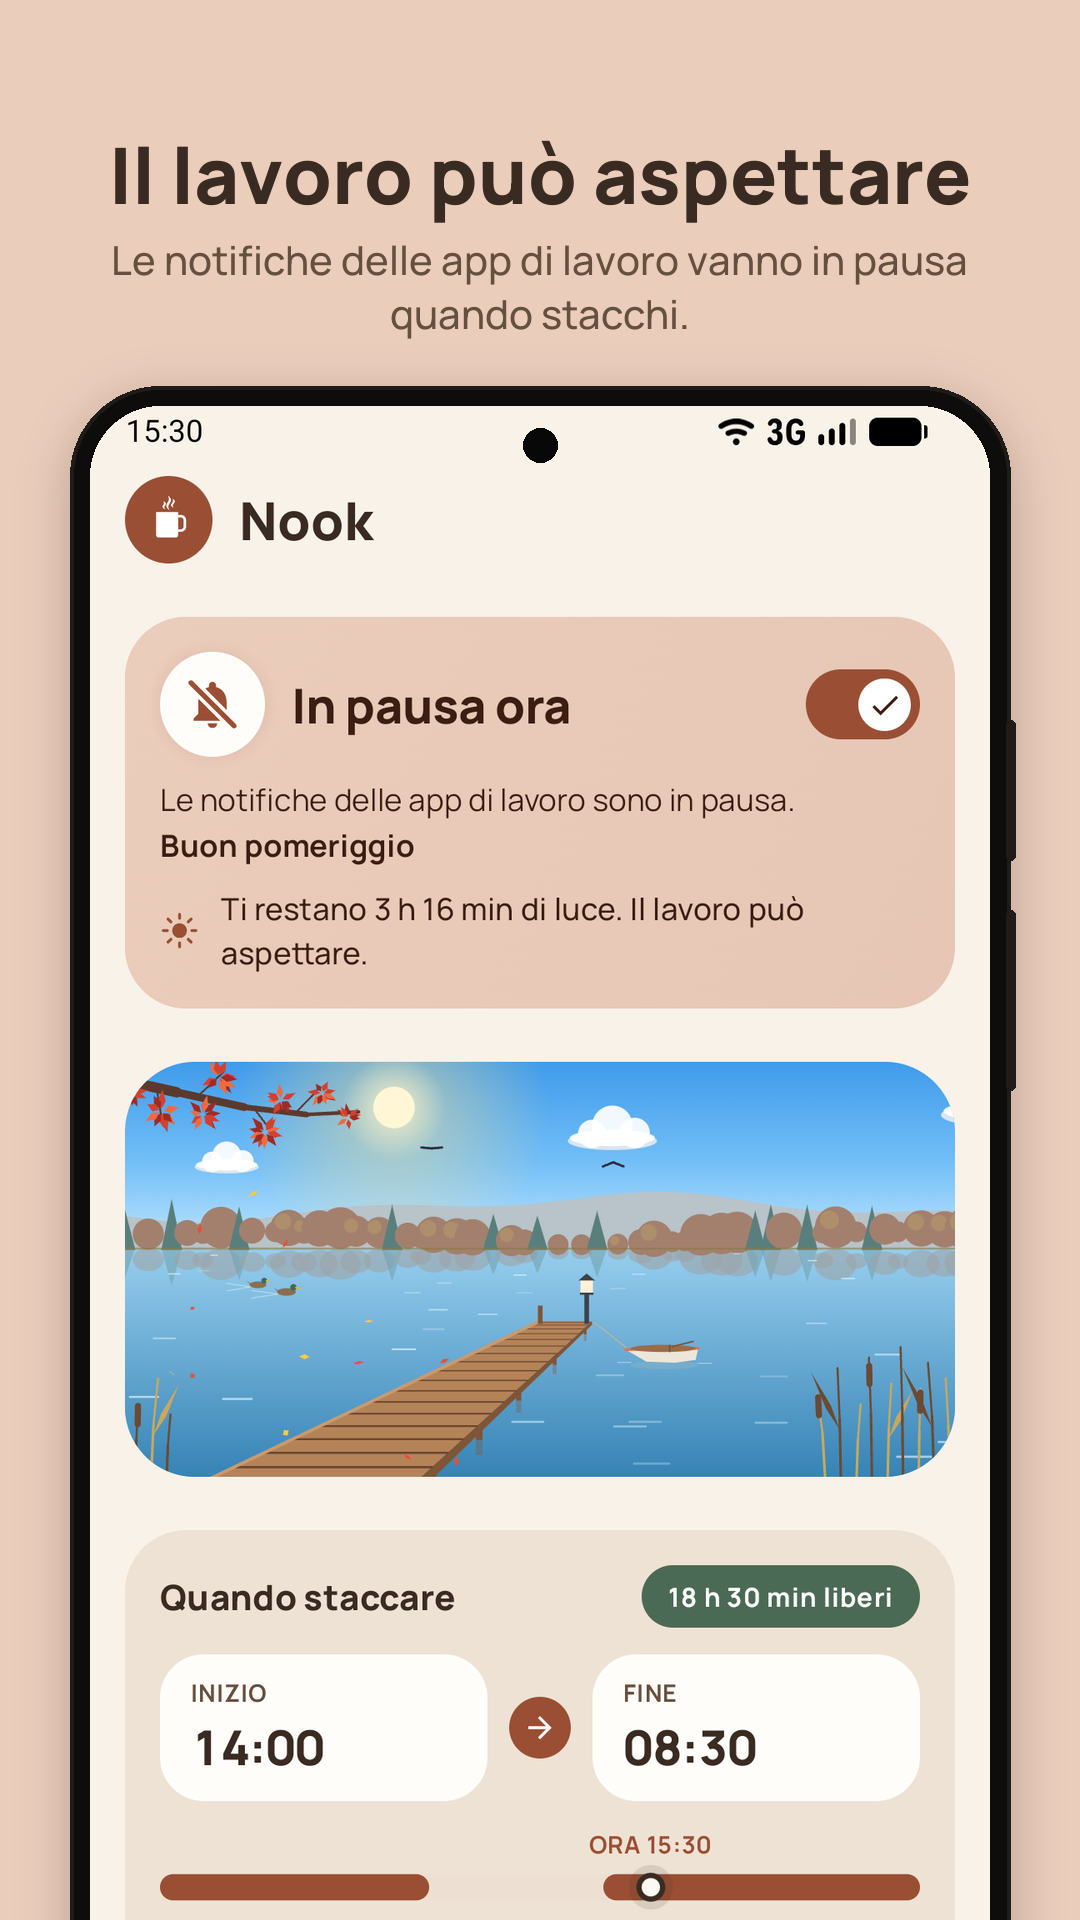
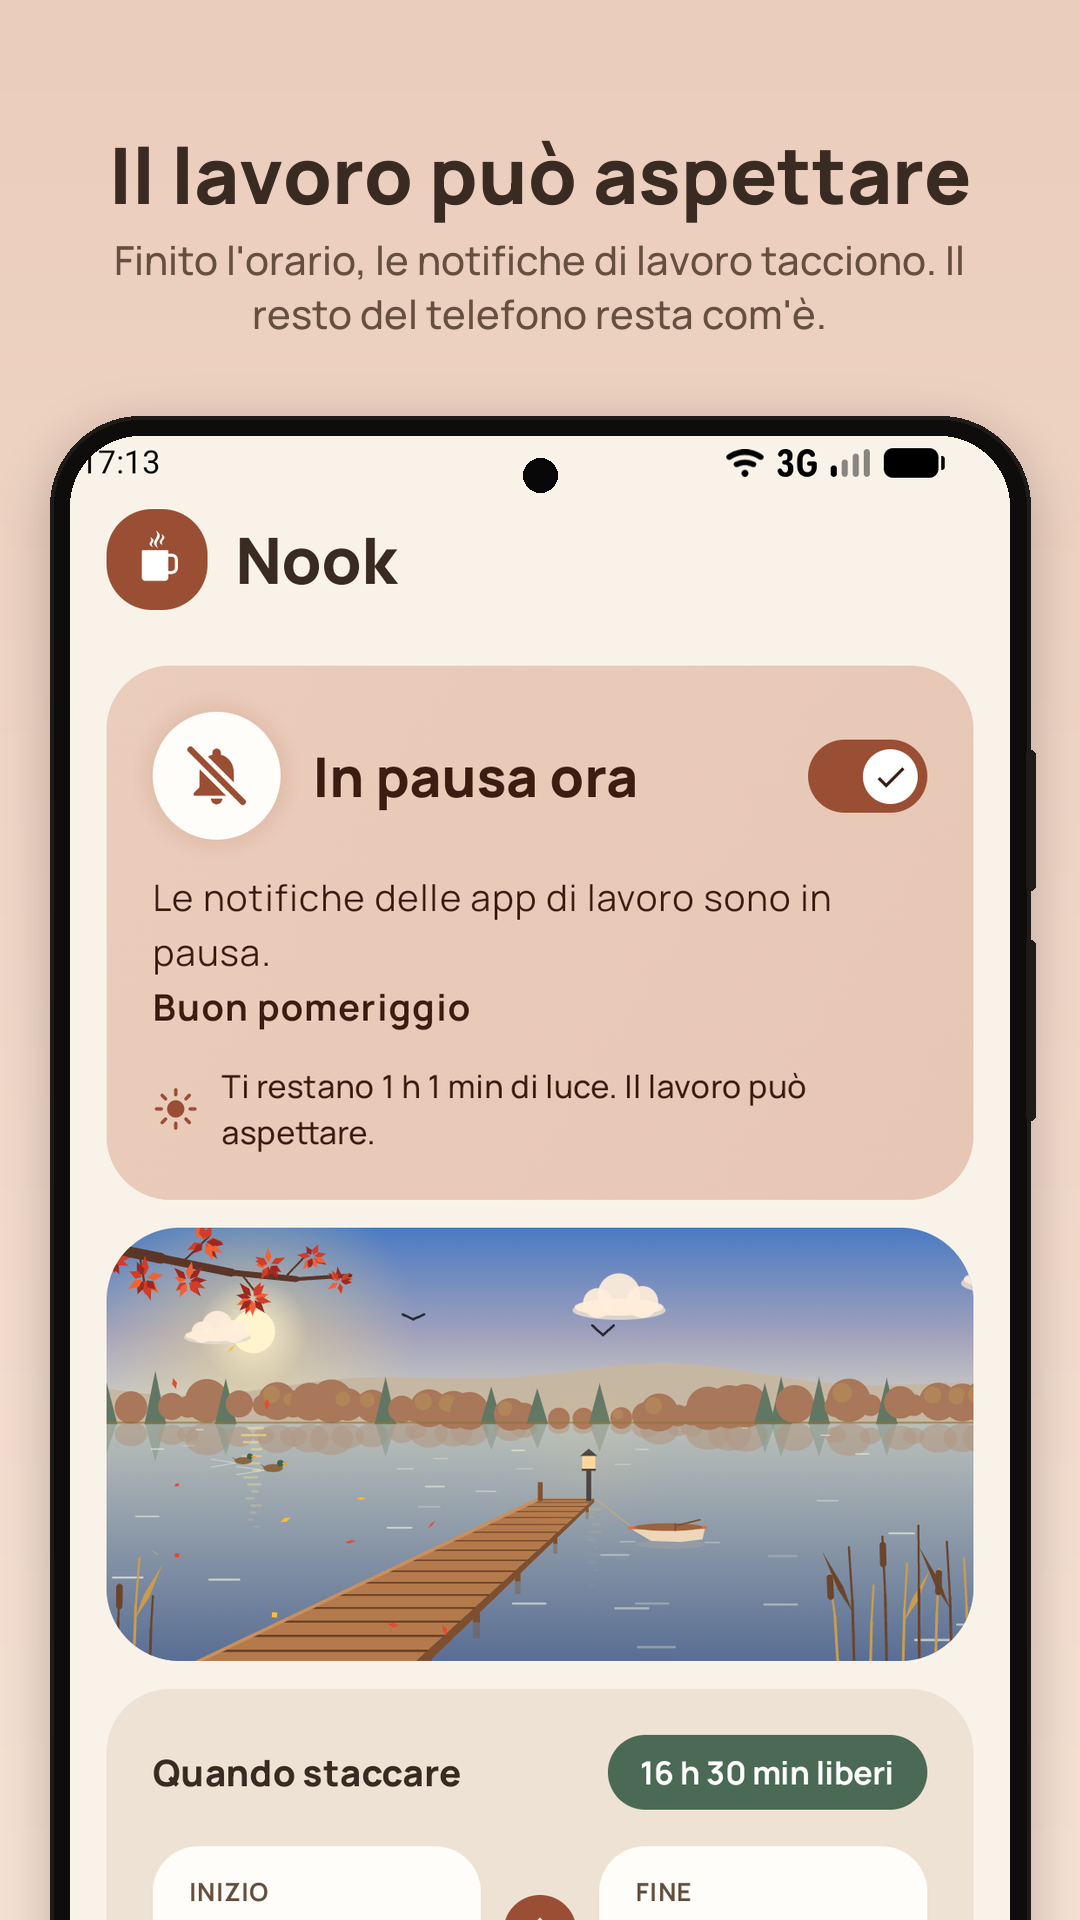
Store screenshots: plainer captions, gradient background, fixed phone position

diff --git a/tools/store/compose_screenshots.py b/tools/store/compose_screenshots.py
@@ -18,24 +18,24 @@ FONT=sys.argv[2]
 W,H=1080,1920
 def font(size, weight):
     f=ImageFont.truetype(FONT,size); f.set_variation_by_name(weight); return f
-LIGHT=dict(bg=(235,205,188), title=(58,43,34), sub=(101,80,63))
-DARK=dict(bg=(27,23,20), title=(242,231,221), sub=(214,197,184))
+LIGHT=dict(bg=(235,205,188), bg2=(246,226,212), title=(58,43,34), sub=(101,80,63))
+DARK=dict(bg=(27,23,20), bg2=(46,38,33), title=(242,231,221), sub=(214,197,184))
 SHOTS=[
  ('01_pausa','1_break',None,LIGHT,
-  ("Il lavoro può aspettare","Le notifiche delle app di lavoro vanno in pausa quando stacchi."),
-  ("Work can wait","Notifications from your work apps pause when you switch off.")),
+  ("Il lavoro può aspettare","Finito l'orario, le notifiche di lavoro tacciono. Il resto del telefono resta com'è."),
+  ("Work can wait","When you're off, work notifications go quiet. The rest of your phone stays as it is.")),
  ('02_app','3_apps',None,LIGHT,
-  ("Scegli le app di lavoro","Tutte le altre notifiche arrivano come sempre."),
-  ("Pick your work apps","Every other notification comes through as usual.")),
+  ("Scegli le app di lavoro","La mail dell'ufficio, la chat, il calendario. Le altre non vengono toccate."),
+  ("Pick your work apps","Office email, chat, calendar. Nothing else gets touched.")),
  ('03_notifica','2_shade',None,LIGHT,
-  ("Tutto nella tendina","Una notifica silenziosa ti dice fino a quando dura la pausa."),
-  ("Your break at a glance","A silent notification shows when it ends.")),
+  ("Sai che la pausa è attiva","Una notifica discreta ti dice fino a che ora dura."),
+  ("Always know it's on","One quiet notification shows when your break ends.")),
  ('04_resoconto','4_report',None,LIGHT,
-  ("Sai cosa ti aspetta","Quando torni vedi quante notifiche sono arrivate e da quali app."),
-  ("Know what's waiting","When you're back, see how many came in and from which apps.")),
+  ("Poi vedi cosa è arrivato","Quando torni, vedi quante notifiche ci sono state e da quali app."),
+  ("See what you missed","When you're back, see how many came in and from which apps.")),
  ('05_scuro','5_dark',None,DARK,
-  ("Anche con il tema scuro","La scena segue la luce vera del giorno e le stagioni."),
-  ("Light or dark","The scene follows the real daylight and the seasons.")),
+  ("Chiaro e scuro","La scena segue l'ora e le stagioni."),
+  ("Light or dark, your call","The scene changes with the time of day and the seasons.")),
 ]
 def wrap(d, text, f, maxw):
     words=text.split(); lines=[]; cur=''
@@ -50,6 +50,8 @@ for lang,folder in (('it','it-IT'),('en','en-US')):
     for name,src,crop,pal,it,en in SHOTS:
         title,sub = it if lang=='it' else en
         img=Image.new('RGB',(W,H),pal['bg']); d=ImageDraw.Draw(img)
+        for yy in range(H):  # vertical gradient, lighter towards the bottom
+            t=yy/H; d.line((0,yy,W,yy),fill=tuple(int(pal['bg'][i]+(pal['bg2'][i]-pal['bg'][i])*t) for i in range(3)))
         ft=font(78,'ExtraBold'); fs=font(40,'Medium')
         y=120
         for line in wrap(d,title,ft,W-160):
@@ -57,10 +59,10 @@ for lang,folder in (('it','it-IT'),('en','en-US')):
         y+=18
         for line in wrap(d,sub,fs,W-200):
             d.text((W//2,y),line,font=fs,fill=pal['sub'],anchor='ma'); y+=54
-        top=y+50
+        top=420  # fixed: the phone sits at the same height in every shot
         shot=Image.open(f'{RAW}/{folder}/{src}.png').convert('RGB')
         if crop: shot=shot.crop(crop)
-        sw=900; sh=int(shot.height*sw/shot.width); shot=shot.resize((sw,sh),Image.LANCZOS)
+        sw=940; sh=int(shot.height*sw/shot.width); shot=shot.resize((sw,sh),Image.LANCZOS)
         BZ=16; OR=86   # bezel width, outer corner radius (inner = OR - BZ)
         fx=(W-sw-2*BZ)//2; fw=sw+2*BZ
         vis=H-top-BZ+60  # screen height shown: it bleeds off the bottom edge

diff --git a/docs/store/LISTING.md b/docs/store/LISTING.md
@@ -128,9 +128,9 @@ Gli screenshot, nell'ordine:
 |---|---|---|
 | `01_pausa` | Il lavoro può aspettare | Work can wait |
 | `02_app` | Scegli le app di lavoro | Pick your work apps |
-| `03_notifica` | Tutto nella tendina | Your break at a glance |
-| `04_resoconto` | Sai cosa ti aspetta | Know what's waiting |
-| `05_scuro` | Anche con il tema scuro | Light or dark |
+| `03_notifica` | Sai che la pausa è attiva | Always know it's on |
+| `04_resoconto` | Poi vedi cosa è arrivato | See what you missed |
+| `05_scuro` | Chiaro e scuro | Light or dark, your call |
 
 Come rifarli (dopo un cambio di interfaccia o delle scene):
 
